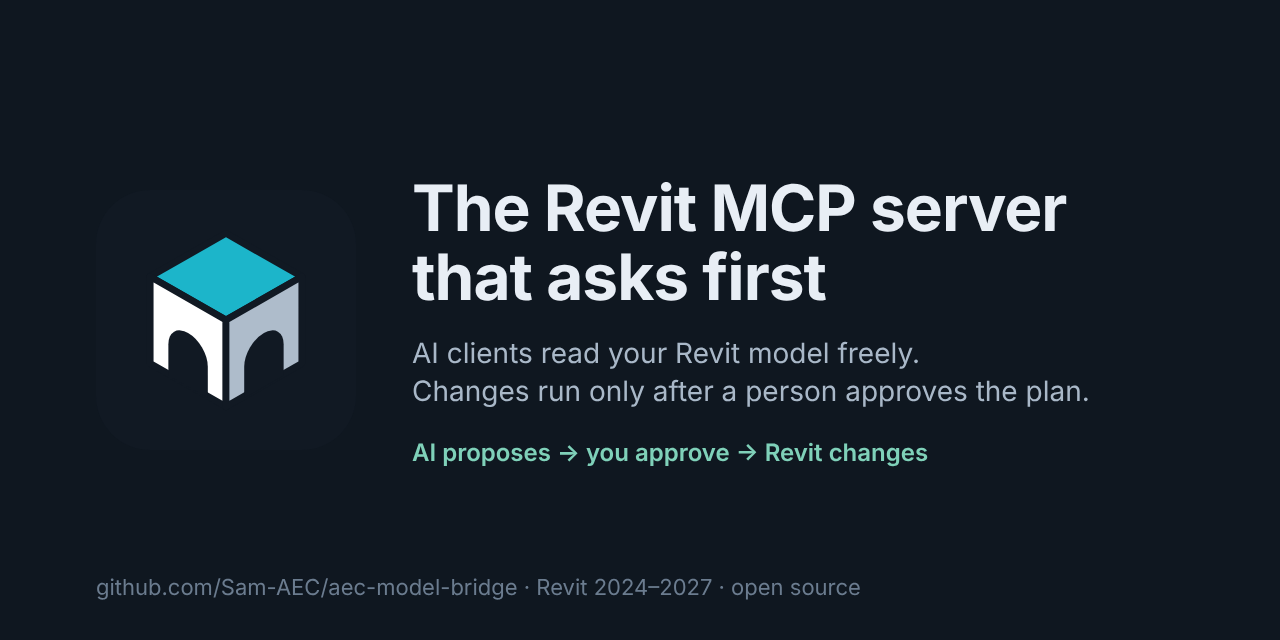
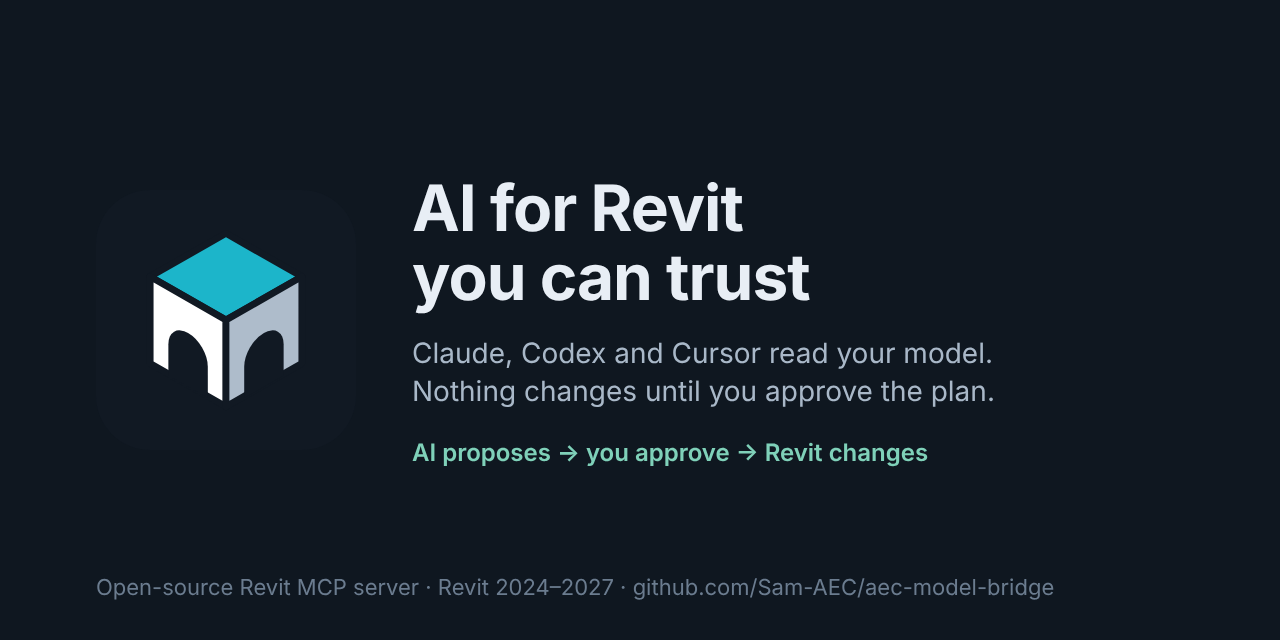
README headline: AI for Revit you can trust

Changed region(s): [[0.3125, 0.2812, 0.8438, 0.5], [0.3125, 0.5312, 0.8438, 0.6562], [0.0625, 0.9062, 0.8125, 0.9375]]

diff --git a/README.md b/README.md
@@ -4,11 +4,11 @@
 
 **English** | [简体中文](docs/i18n/README.zh-CN.md) | [Español](docs/i18n/README.es.md) | [हिन्दी](docs/i18n/README.hi.md) | [العربية](docs/i18n/README.ar.md) | [Português (BR)](docs/i18n/README.pt-BR.md) | [Русский](docs/i18n/README.ru.md) | [日本語](docs/i18n/README.ja.md) | [Deutsch](docs/i18n/README.de.md) | [Français](docs/i18n/README.fr.md) | [Bahasa Indonesia](docs/i18n/README.id.md) | [Türkçe](docs/i18n/README.tr.md) | [한국어](docs/i18n/README.ko.md) | [Tiếng Việt](docs/i18n/README.vi.md) | [Italiano](docs/i18n/README.it.md) | [Polski](docs/i18n/README.pl.md) | [繁體中文](docs/i18n/README.zh-TW.md)
 
-# The Revit MCP server that asks first
+# AI for Revit you can trust
 
 **AI assistants read the Revit model you have open. By default, nothing in it changes until you approve a plan.**
 
-Open source · Revit 2024 – 2027 · 309 tools · Claude, Codex, Cursor and other MCP clients
+Open-source Revit MCP server · Revit 2024 – 2027 · 309 tools · Claude, Codex, Cursor and other MCP clients
 
 [![CI](https://img.shields.io/github/actions/workflow/status/Sam-AEC/aec-model-bridge/ci.yml?branch=main&style=flat-square&label=CI)](https://github.com/Sam-AEC/aec-model-bridge/actions/workflows/ci.yml)
 [![Release](https://img.shields.io/github/v/release/Sam-AEC/aec-model-bridge?style=flat-square&color=0F766E)](https://github.com/Sam-AEC/aec-model-bridge/releases/latest)

diff --git a/CHANGELOG.md b/CHANGELOG.md
@@ -2,6 +2,7 @@
 
 ## Unreleased
 
+- README headline is now "AI for Revit you can trust"; the social preview card matches.
 - `assets/social-preview.png` (1280x640) for the repository social preview.
 - Repository layout: community files (`CODE_OF_CONDUCT.md`, `CONTRIBUTING.md`, `SECURITY.md`, `SUPPORT.md`) moved to `.github/`; `TRADEMARKS.md` to `docs/legal/`; ADRs to `docs/adr/`; the VS Code extension from `extensions/vscode/` to `packages/vscode-extension/`; the Claude Code plugin from `plugin/` to `packages/claude-plugin/`; the canonical test model fixtures to `packages/mcp-server-revit/tests/fixtures/`; example rule packs to `docs/examples/rule_packs/`. Links, workflows, `scripts/version.py` and tests point to the new paths.
 - Built-in modules now write files through the `files.write` check, and the manifests of `selection_tools`, `model_inspector`, `parameter_manager` and `revit_ifc` declare it (#157).
